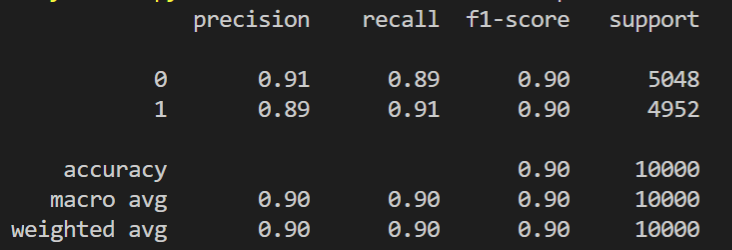
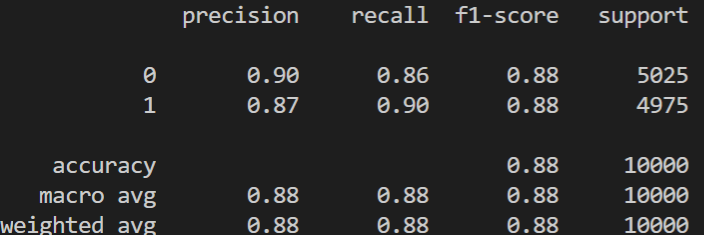
Bigram TF-IDF

diff --git a/train.py b/train.py
@@ -61,7 +61,7 @@ def preprocess(review):
 # Used to classify and vectorize dataset with TF-IDF and SVM
 def train(X_train, y_train):
     # Used to vectorize words
-    vectorizer = TfidfVectorizer()
+    vectorizer = TfidfVectorizer(ngram_range=(2,2))
     # Used to implement SVM     
     SVM = svm.LinearSVC()
     # Used to build a composite estimator using vectorizer and SVM 
